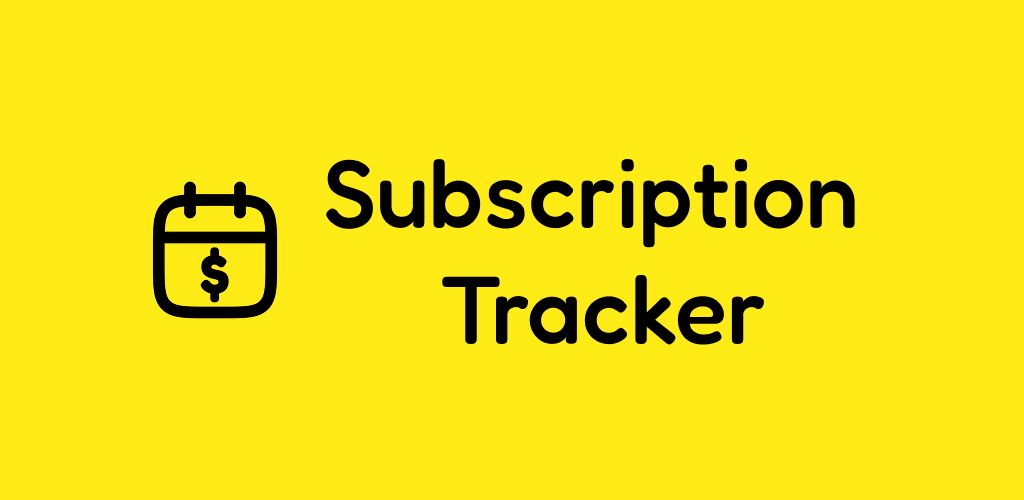
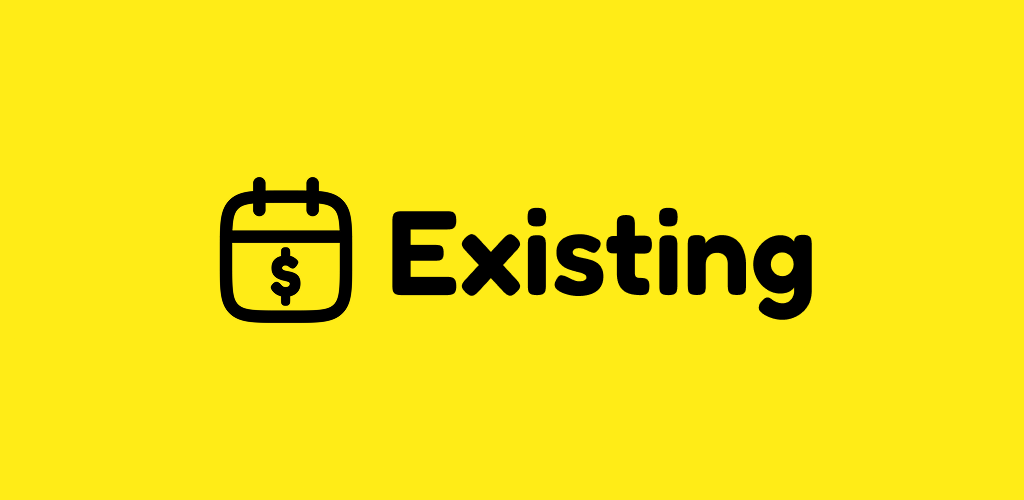
.

Changed region(s): [[0.125, 0.3, 0.8438, 0.69]]

diff --git a/content/subscription-tracker/_index.md b/content/subscription-tracker/_index.md
@@ -8,4 +8,37 @@ cover:
   responsiveImages: false
 ---
 
-🚧 we're under construction! 🚧
+Ever felt like your money vanishes the moment you wake up?
+
+From video streaming and music apps to monthly rent, insurance, and utility bills—our hard-earned money slips away automatically every single month. If you are tired of being surprised by unexpected auto-renewals and forgotten bill dates, it is time to take control with Existing.
+
+Existing is the ultimate, minimalist fixed expense and subscription tracker designed to help you see exactly how much you spend just by living. No complicated accounting, no tedious manual bookkeeping. Just add your recurring costs and let us handle the rest.
+
+---
+
+✨ KEY FEATURES FOR YOUR PIECE OF MIND
+
+■ Effortless Registration in 3 Seconds
+Adding a new expense shouldn't feel like a chore. With our super-smooth wheel picker and cute emojis, you can register any subscription or fixed cost in just 3 seconds! Customize each item with your preferred currency, add a little note, or log your payment method for perfectly organized records.
+
+■ Your Fixed Expense Dashboard at a Glance
+Open the app and instantly see the big picture. Our clean, intuitive main dashboard calculates your total fixed expenses for the current month. Know your "baseline survival cost" immediately so you can plan your remaining budget with confidence.
+
+■ Smart Payment Reminders
+Stop paying for services you forgot to cancel! Existing sends you timely push notifications before your upcoming payment dates. Whether it's a monthly subscription renewal or your yearly membership fee, you'll always be prepared before the money leaves your bank account.
+
+■ Full Global Currency Support
+Living abroad or using international services? We’ve got you covered. Existing seamlessly supports all major global currencies (USD, KRW, JPY, EUR, and more). Track individual expenses in their native currency and manage your global lifestyle without any friction.
+
+---
+
+💡 PERFECT FOR ANYONE WHO WANTS TO:
+• Stop unwanted auto-renewals from free trials.
+• Track fixed costs like monthly rent, utility bills, and loans in one place.
+• See a clear summary of all active digital subscriptions.
+• Avoid late fees with automated bill reminders.
+• Keep budget management simple, clean, and stress-free.
+
+Managing your fixed expenses is the very first step toward financial freedom. Stop letting hidden costs drain your wallet.
+
+Download Existing today and see exactly where your money goes!